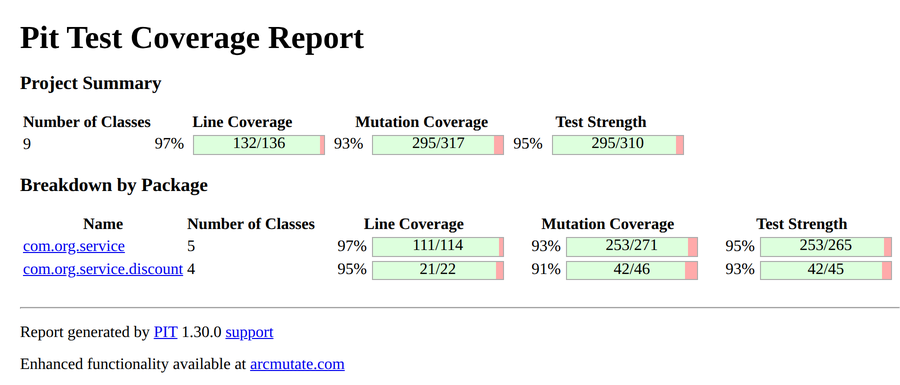
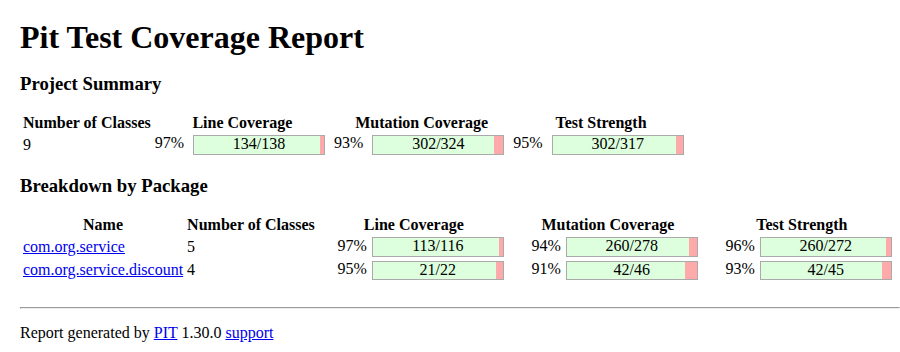
docs: README and test names match PIT 1.30.0's config and output
- Build baseline: Java 27 from super-pom 1.2.0 (was a 25 override),
  parent chain Boot 4.1.1 / super-pom 1.2.0, PIT pinned in this pom.
- Mutator table: RETURN_VALUES no longer exists (these are
  PRIMITIVE_RETURNS); the INCREMENTS row claimed a mutant PIT never
  generates here (it filters loop-counter increments), replaced with a
  real INLINE_CONSTS kill. Tests' comments/display names renamed the same
  way (RETURN_VALUES, VOID_METHOD -> VOID_METHOD_CALLS).
- New: which of the 22 unkilled mutants are equivalent, dead code
  (validatePositive is never called) or real gaps.
- Commands: mvn test also runs PIT (bound to the test phase), so show
  -DskipPitest; PIT alone needs test-compile first; the report is at
  target/pit-reports/index.html (not timestamped since 1.30.0 defaults).
- JaCoCo 0.8.15 verified on Java 27 classes, with the @{argLine} needed
  next to super-pom's --add-opens argLine.
- Re-shot the PIT summary (177 tests: 324 mutations, 302 killed);
  JUnit guide link pinned to 6.0.3; "JUnit 5 features" -> Jupiter.

diff --git a/src/test/java/com/org/service/TestDiscountService.java b/src/test/java/com/org/service/TestDiscountService.java
@@ -58,7 +58,7 @@ class TestDiscountService {
         }
 
         @Test
-        @DisplayName("getPercentage returns configured value — kills RETURN_VALUES mutant")
+        @DisplayName("getPercentage returns configured value — kills PRIMITIVE_RETURNS mutant")
         void getPercentage() {
             PercentageDiscount d = new PercentageDiscount(30);
             assertEquals(30.0, d.getPercentage(), 0.001);
@@ -93,7 +93,7 @@ class TestDiscountService {
         }
 
         @Test
-        @DisplayName("getDiscountAmount returns configured value — kills RETURN_VALUES mutant")
+        @DisplayName("getDiscountAmount returns configured value — kills PRIMITIVE_RETURNS mutant")
         void getDiscountAmount() {
             FlatDiscount d = new FlatDiscount(25.0);
             assertEquals(25.0, d.getDiscountAmount(), 0.001);
@@ -109,7 +109,7 @@ class TestDiscountService {
     class NoDiscountTests {
 
         @Test
-        @DisplayName("price is unchanged — kills RETURN_VALUES mutant")
+        @DisplayName("price is unchanged — kills PRIMITIVE_RETURNS mutant")
         void priceUnchanged() {
             DiscountService svc = new DiscountService(new NoDiscount());
             assertEquals(99.99, svc.calculateFinalPrice(99.99), 0.001);

diff --git a/src/test/java/com/org/service/TestStockService.java b/src/test/java/com/org/service/TestStockService.java
@@ -47,7 +47,7 @@ class TestStockService {
     }
 
     // -------------------------------------------------------------------------
-    // add — verifies both return value AND persisted state (kills VOID_METHOD mutants)
+    // add — verifies both return value AND persisted state (kills VOID_METHOD_CALLS mutants)
     // -------------------------------------------------------------------------
 
     @Nested
@@ -71,7 +71,7 @@ class TestStockService {
         void rejectsNegativeQty() {
             StockService s = new StockService(100);
             assertThrows(IllegalArgumentException.class, () -> s.add(-1));
-            assertEquals(100, s.getQuantityOnHand());   // kills VOID_METHOD mutant on validateNonNegative
+            assertEquals(100, s.getQuantityOnHand());   // kills VOID_METHOD_CALLS mutant on validateNonNegative
         }
 
         @Test

diff --git a/src/test/java/com/org/service/TestCalculatorService.java b/src/test/java/com/org/service/TestCalculatorService.java
@@ -234,7 +234,7 @@ class TestCalculatorService {
     }
 
     // -------------------------------------------------------------------------
-    // percentage — kills MATH and RETURN_VALUES mutants
+    // percentage — kills MATH and PRIMITIVE_RETURNS mutants
     // -------------------------------------------------------------------------
 
     @Nested

diff --git a/src/test/java/com/org/service/TestBankAccount.java b/src/test/java/com/org/service/TestBankAccount.java
@@ -234,7 +234,7 @@ class TestBankAccount {
     }
 
     // -------------------------------------------------------------------------
-    // applyInterest — kills MATH, RETURN_VALUES mutants
+    // applyInterest — kills MATH, PRIMITIVE_RETURNS mutants
     // -------------------------------------------------------------------------
 
     @Nested

diff --git a/README.md b/README.md
@@ -12,13 +12,13 @@
 3. 🏗 [Project Structure](#project-structure)
 4. 🏗 [Design Patterns (GoF)](#design-patterns-gof)
 5. 🧰 [Tech Stack](#tech-stack)
-6. 🧪 [JUnit 5 Features Used](#junit-5-features-used)
+6. 🧪 [JUnit Jupiter Features Used](#junit-jupiter-features-used)
 7. 🧬 [PITest Mutation Coverage — What Each Test Kills](#pitest-mutation-coverage--what-each-test-kills)
 8. 🧪 [Running Tests](#running-tests)
 9. 🧬 [Running Mutation Coverage Only](#running-mutation-coverage-only)
 10. 📚 [References](#references)
 
-A Maven project demonstrating mutation testing using [PITest](https://pitest.org) with JUnit 6 (Jupiter API) and Java 25. Current run: 169 tests, 317 mutations, 93% killed, test strength 95%.
+A Maven project demonstrating mutation testing using [PITest](https://pitest.org) with JUnit 6 (Jupiter API) and Java 27. Current run: 177 tests, 324 mutations, 93% killed, test strength 95%.
 Inherits shared plugin management from the corporate `super-pom`.
 
 ---
@@ -53,8 +53,8 @@ flowchart LR
 ## <span style="color:hsl(127,80%,58%)">2. 🔨 Parent POM Hierarchy</span>
 
 ```
-org.springframework.boot:spring-boot-starter-parent:4.1.0
-  └── com.org.llm:super-pom:1.1.3
+org.springframework.boot:spring-boot-starter-parent:4.1.1
+  └── com.org.llm:super-pom:1.2.0
         └── com.org.test:mutation-testing:1.0-SNAPSHOT
 ```
 
@@ -62,15 +62,20 @@ The super-pom supplies:
 
 <ul>
 
-- `maven-compiler-plugin` via `${java.version}` → overridden to **25** here
+- `java.version` **27** → `maven.compiler.release` 27 (not overridden here), plus an enforcer
+  rule that the build runs on JDK 27+
 - `maven-surefire-plugin` (3.x with JUnit Platform auto-detection)
 - `spring-boot-maven-plugin` — **skipped** (no application class)
 - `git-commit-id-maven-plugin` — **skipped** (not needed for a test module)
 - `jacoco-maven-plugin` in `<pluginManagement>` (opt-in) — not activated here. The pinned 0.8.15
-  reads Java 25 classes fine (0.8.13 could not — major version 69); enable it if you want line
-  coverage next to mutation coverage
-- PIT itself had the same problem: 1.19.1 failed with "Unsupported class file major version 69";
-  the super-pom's 1.30.0 handles Java 25
+  instruments this project's Java 27 classes (major version 71) fine (0.8.13 could not even read
+  Java 25's major version 69). To enable it, declare the plugin and write surefire's argLine as
+  `@{argLine} --add-opens java.base/java.lang=ALL-UNNAMED`: the super-pom's plain `--add-opens`
+  argLine otherwise replaces the JaCoCo agent, and the report is skipped for lack of `jacoco.exec`
+- `pitest-maven.version` / `pitest-junit5-plugin.version` — 1.30.0 / 1.2.3, the latest releases
+  (checked Sep 2026). This pom pins both through those properties; the super-pom itself only wires
+  PIT inside its opt-in `mutation-test` profile. PIT had the same class-file problem: 1.19.1 failed
+  with "Unsupported class file major version 69"; 1.30.0 mutates Java 27 bytecode
 
 </ul>
 
@@ -118,19 +123,19 @@ src/
 <a id="tech-stack"></a>
 ## <span style="color:hsl(179,80%,58%)">5. 🧰 Tech Stack</span>
 
-| Component               | Version | Source                                             |
-|-------------------------|---------|----------------------------------------------------|
-| Java                    | 25      | override in pom                                    |
-| JUnit Jupiter (JUnit 6) | 6.0.3   | managed by Spring Boot 4.1.1 (via super-pom)       |
-| PITest (pitest-maven)   | 1.30.0  | super-pom `pitest-maven.version` (as of 2026)      |
+| Component               | Version | Source                                                       |
+|-------------------------|---------|--------------------------------------------------------------|
+| Java                    | 27      | super-pom 1.2.0 `java.version`                               |
+| JUnit Jupiter (JUnit 6) | 6.0.3   | managed by Spring Boot 4.1.1 (via super-pom)                 |
+| PITest (pitest-maven)   | 1.30.0  | super-pom `pitest-maven.version` (as of Sep 2026)            |
 | pitest-junit5-plugin    | 1.2.3   | super-pom `pitest-junit5-plugin.version`; works with JUnit 6 |
-| maven-surefire-plugin   | 3.x     | inherited (super-pom → spring-boot-starter-parent) |
-| maven-compiler-plugin   | 3.x     | inherited (super-pom → spring-boot-starter-parent) |
+| maven-surefire-plugin   | 3.x     | inherited (super-pom → spring-boot-starter-parent)           |
+| maven-compiler-plugin   | 3.x     | inherited (super-pom → spring-boot-starter-parent)           |
 
 ---
 
-<a id="junit-5-features-used"></a>
-## <span style="color:hsl(317,80%,58%)">6. 🧪 JUnit 5 Features Used</span>
+<a id="junit-jupiter-features-used"></a>
+## <span style="color:hsl(317,80%,58%)">6. 🧪 JUnit Jupiter Features Used</span>
 
 | Feature                                   | Where                                      |
 |-------------------------------------------|--------------------------------------------|
@@ -166,12 +171,32 @@ opened up: every covered line carries its mutant count, and each mutant says how
 | `CONDITIONALS_BOUNDARY` | `> 0` → `>= 0`             | `isPositive(0)` asserts false; `hasEnough(10,10)` asserts true |
 | `NEGATE_CONDITIONALS`   | `isEmpty` → `!isEmpty`     | Separate true/false test cases for every predicate             |
 | `MATH`                  | `a + b` → `a - b`          | Exact value assertions on every arithmetic result              |
-| `RETURN_VALUES`         | `return x` → `return 0`    | `assertEquals(expected, actual)` everywhere                    |
+| `PRIMITIVE_RETURNS`     | `return x` → `return 0`    | `assertEquals(expected, actual)` everywhere                    |
 | `VOID_METHOD_CALLS`     | skip `validateNonNegative` | State-unchanged assertions after rejected inputs               |
-| `INCREMENTS`            | `i += 2` → `i += 1`        | `factorial` and `isPrime` parameterised cases                  |
-| `NULL_RETURNS`          | `return account` → `null`  | Builder test reads fields after `build()`                      |
+| `INLINE_CONSTS`         | `n < 2` → `n < 3`          | `isPrime(2)` asserts true                                      |
+| `NULL_RETURNS`          | `build()` → `return null`  | Builder test reads fields after `build()`                      |
 | `FALSE_RETURNS`         | `canWithdraw` → false      | Exact-equal boundary cases assert true                         |
 | `TRUE_RETURNS`          | `isEmpty` → true           | `new StockService(1).isEmpty()` asserts false                  |
+
+`<mutator>ALL</mutator>` also switches on `INCREMENTS`, but it generates nothing here: the only
+increment is `isPrime`'s loop counter (`i += 2`), and PIT drops mutants on loop counters because
+they tend to loop forever.
+
+The 22 mutants that are not killed fall into three groups:
+
+<ul>
+
+- **Equivalent mutants** — the change doesn't alter behaviour, so no test can kill them:
+  `max`'s `a >= b` → `a > b` and the same in `min` (equal inputs return the same value either way),
+  `clamp`'s boundaries,
+  `factorial`'s `n == 1` shortcut (1 × 0! is still 1), and `BankAccount.Builder`'s `= 0.0`
+  initialisers (the field default is already 0.0)
+- **No coverage** — `AbstractService.validatePositive` is never called, so PIT flags its 6 mutants
+  as dead code
+- **Real gaps** you could close — e.g. `FlatDiscount`'s `discounted < 0` → `< 1` survives because
+  no test lands a discounted price between 0 and 1
+
+</ul>
 
 ---
 
@@ -179,17 +204,20 @@ opened up: every covered line carries its mutant count, and each mutant says how
 ## <span style="color:hsl(232,80%,58%)">8. 🧪 Running Tests</span>
 
 ```bash
-mvn test
+mvn test                  # the 177 unit tests, then PIT (it is bound to the test phase)
+mvn test -DskipPitest     # the unit tests only
 ```
 
 <a id="running-mutation-coverage-only"></a>
 ## <span style="color:hsl(9,80%,58%)">9. 🧬 Running Mutation Coverage Only</span>
 
 ```bash
-mvn org.pitest:pitest-maven:mutationCoverage
+mvn test-compile org.pitest:pitest-maven:mutationCoverage
 ```
 
-HTML report: `target/pit-reports/<timestamp>/index.html`
+PIT needs compiled classes, hence `test-compile` first; the goal picks up the `<configuration>`
+from the pom. HTML report: `target/pit-reports/index.html` (1.30.0 doesn't timestamp report
+folders unless `timestampedReports` is set).
 
 ---
 
@@ -201,7 +229,7 @@ HTML report: `target/pit-reports/<timestamp>/index.html`
 - [PITest official site](https://pitest.org)
 - [PITest mutator documentation](https://pitest.org/quickstart/mutators/)
 - [pitest-junit5-plugin](https://github.com/pitest/pitest-junit5-plugin)
-- [JUnit 5 User Guide](https://junit.org/junit5/docs/current/user-guide/)
+- [JUnit User Guide (6.0.3)](https://docs.junit.org/6.0.3/overview.html)
 
 </ul>
 
